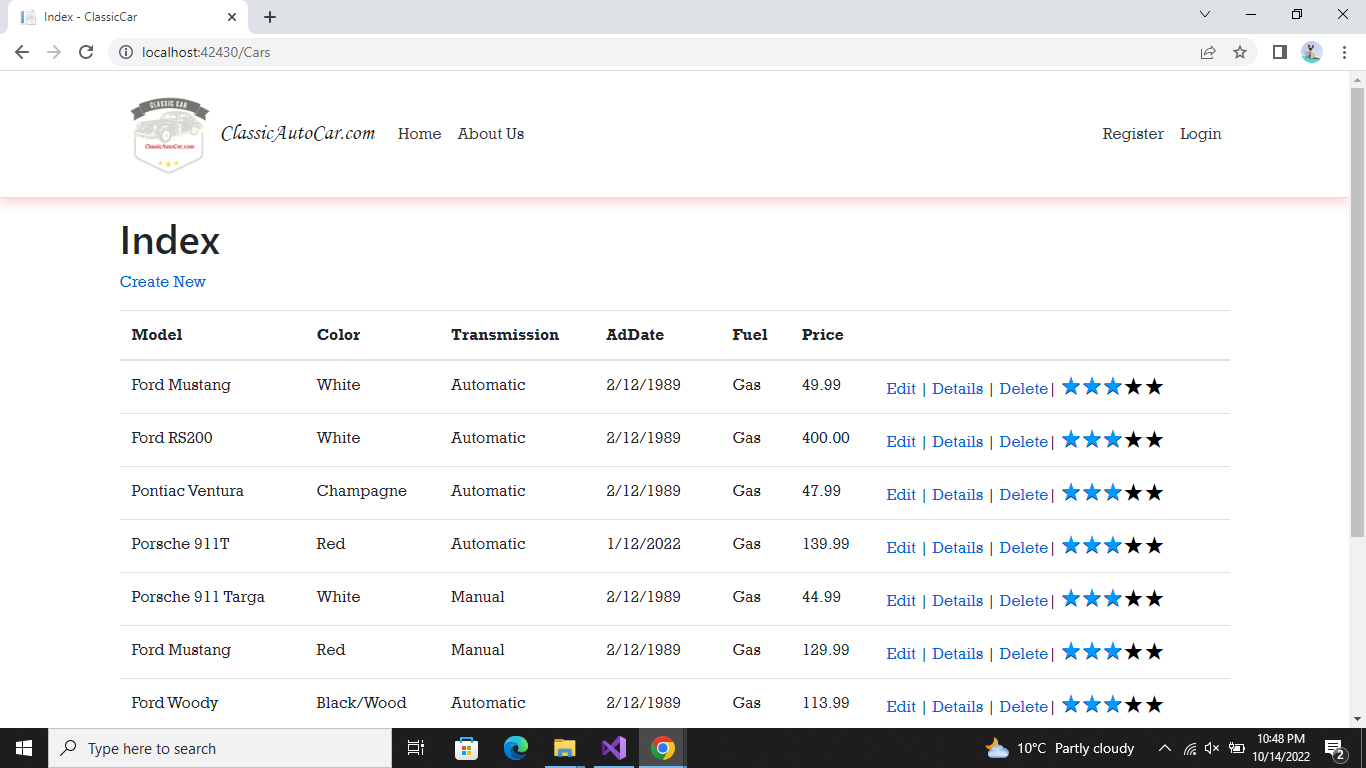
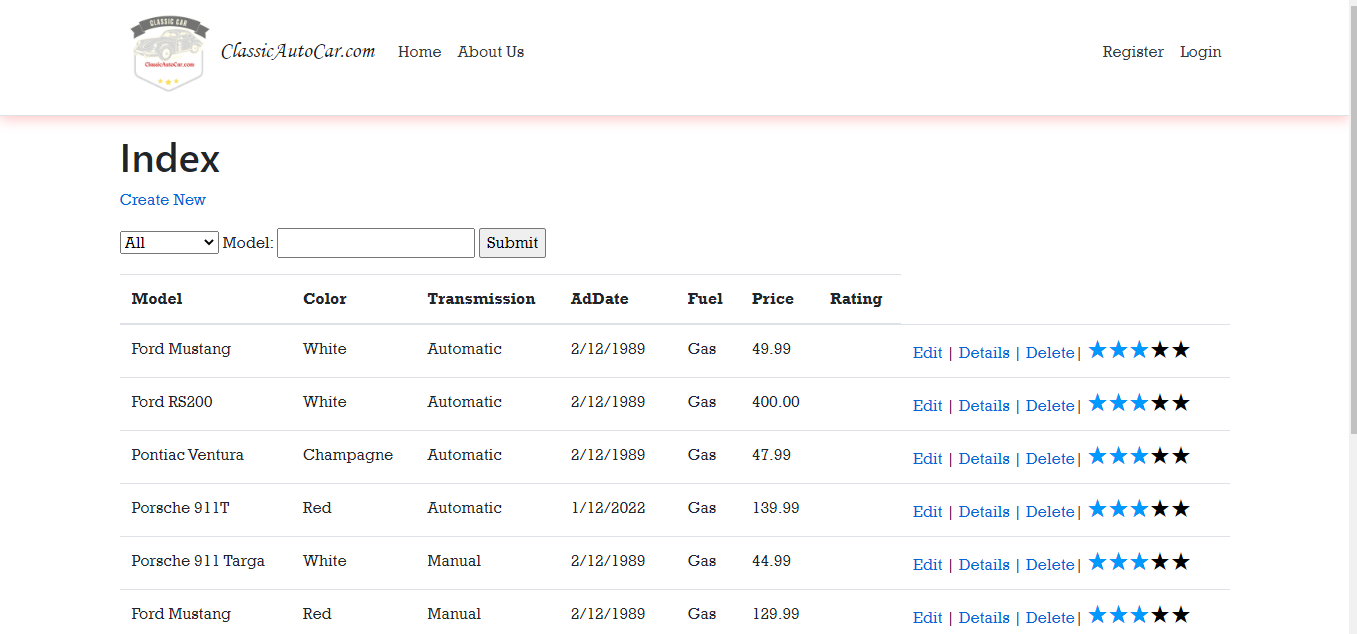
last commit

diff --git a/Models/SeedData.cs b/Models/SeedData.cs
@@ -30,7 +30,8 @@ namespace ClassicCar.Models
                         Transmission = "Automatic",
                         AdDate = DateTime.Parse("1989-2-12"),
                         Fuel = "Gas",
-                        Price = 49.99M
+                        Price = 49.99M,
+                        Rating = "4"
                         
                     },
 
@@ -41,7 +42,8 @@ namespace ClassicCar.Models
                         Transmission = "Automatic",
                         AdDate = DateTime.Parse("1989-2-12"),
                         Fuel = "Gas",
-                        Price = 400.99M
+                        Price = 400.99M,
+                        Rating = "3"
                     },
 
                     new Car
@@ -51,7 +53,8 @@ namespace ClassicCar.Models
                         Transmission = "Automatic",
                         AdDate = DateTime.Parse("1989-2-12"),
                         Fuel = "Gas",
-                        Price = 47.99M
+                        Price = 47.99M,
+                        Rating = "2"
                     },
 
                     new Car
@@ -61,7 +64,8 @@ namespace ClassicCar.Models
                         Transmission = "Automatic",
                         AdDate = DateTime.Parse("1972-2-12"),
                         Fuel = "Gas",
-                        Price = 139.99M
+                        Price = 139.99M,
+                        Rating = "4"
                     },
                      new Car
                      {
@@ -70,7 +74,8 @@ namespace ClassicCar.Models
                          Transmission = "Manual",
                          AdDate = DateTime.Parse("1980-2-12"),
                          Fuel = "Gas",
-                         Price = 44.99M
+                         Price = 44.99M,
+                         Rating = "5"
                      },
                       new Car
                       {
@@ -79,7 +84,9 @@ namespace ClassicCar.Models
                           Transmission = "Manual",
                           AdDate = DateTime.Parse("1967-2-12"),
                           Fuel = "Gas",
-                          Price = 129.99M
+                          Price = 129.99M,
+                          Rating = "3"
+
                       },
                        new Car
                        {
@@ -88,7 +95,8 @@ namespace ClassicCar.Models
                            Transmission = "Automatic",
                            AdDate = DateTime.Parse("1989-2-12"),
                            Fuel = "Gas",
-                           Price = 113.99M
+                           Price = 113.99M,
+                           Rating = "2"
                        },
                         new Car
                         {
@@ -97,7 +105,8 @@ namespace ClassicCar.Models
                             Transmission = "Manual",
                             AdDate = DateTime.Parse("1989-2-12"),
                             Fuel = "Gas",
-                            Price = 18.99M
+                            Price = 18.99M,
+                            Rating = "5"
                         },
                          new Car
                          {
@@ -106,7 +115,8 @@ namespace ClassicCar.Models
                              Transmission = "Manual",
                              AdDate = DateTime.Parse("1989-2-12"),
                              Fuel = "Gas",
-                             Price = 100.99M
+                             Price = 100.99M,
+                             Rating = "3"
                          },
                           new Car
                           {
@@ -115,7 +125,8 @@ namespace ClassicCar.Models
                               Transmission = "Automatic",
                               AdDate = DateTime.Parse("1989-2-12"),
                               Fuel = "Gas",
-                              Price = 109.99M
+                              Price = 109.99M,
+                              Rating = "4"
                           }
                 );
                 context.SaveChanges();

diff --git a/Controllers/CarsController.cs b/Controllers/CarsController.cs
@@ -20,9 +20,26 @@ namespace ClassicCar.Controllers
         }
 
         // GET: Cars
-        public async Task<IActionResult> Index()
+        public async Task<IActionResult> Index(string carTransmission, string searchString)
         {
-            return View(await _context.Car.ToListAsync());
+            //use LINQ to get list of Transmission
+            IQueryable<string> transmissionQuery = from m in _context.Car orderby m.Transmission select m.Transmission;
+
+            var cars =from m in _context.Car select m;
+            if (!String.IsNullOrEmpty(searchString))
+            {
+                cars = cars.Where(s => s.Model.Contains(searchString));
+            }
+            if (!String.IsNullOrEmpty(carTransmission))
+            {
+                cars = cars.Where(x => x.Transmission == carTransmission);
+            }
+            var carTransmissionVM = new CarTransmissionViewModel
+            {
+                Transmission = new SelectList(await transmissionQuery.Distinct().ToListAsync()),
+                Cars = await cars.ToListAsync()
+            };
+                return View(carTransmissionVM);
         }
 
         // GET: Cars/Details/5
@@ -54,7 +71,8 @@ namespace ClassicCar.Controllers
         // more details, see http://go.microsoft.com/fwlink/?LinkId=317598.
         [HttpPost]
         [ValidateAntiForgeryToken]
-        public async Task<IActionResult> Create([Bind("Ad_Number,Model,Color,Transmission,AdDate,Fuel,Price")] Car car)
+       // [Bind("Ad_Number,Model,Color, Transmission,AdDate,Fuel,Price,Rating ")]
+        public async Task<IActionResult> Create([Bind("Ad_Number,Model,Color,Transmission,AdDate,Fuel,Price,Rating")] Car car)
         {
             if (ModelState.IsValid)
             {
@@ -85,8 +103,9 @@ namespace ClassicCar.Controllers
         // To protect from overposting attacks, enable the specific properties you want to bind to, for 
         // more details, see http://go.microsoft.com/fwlink/?LinkId=317598.
         [HttpPost]
+       // [Bind("Ad_Number,Model,Color, Transmission,AdDate,Fuel,Price,Rating ")]
         [ValidateAntiForgeryToken]
-        public async Task<IActionResult> Edit(int id, [Bind("Ad_Number,Model,Color,Transmission,AdDate,Fuel,Price")] Car car)
+        public async Task<IActionResult> Edit(int id, [Bind("Ad_Number,Model,Color,Transmission,AdDate,Fuel,Price,Rating")] Car car)
         {
             if (id != car.Ad_Number)
             {
@@ -148,6 +167,12 @@ namespace ClassicCar.Controllers
         private bool CarExists(int id)
         {
             return _context.Car.Any(e => e.Ad_Number == id);
+        }
+
+        [HttpPost]
+        public string Index(string searchString, bool notUsed)
+        {
+            return "From[HttpPost]Index: filter on" + searchString;
         }
     }
 }

diff --git a/Data/Migrations/20221017211507_Rating.cs b/Data/Migrations/20221017211507_Rating.cs
@@ -1,0 +1,38 @@
+using Microsoft.EntityFrameworkCore.Migrations;
+
+namespace ClassicCar.Data.Migrations
+{
+    public partial class Rating : Migration
+    {
+        protected override void Up(MigrationBuilder migrationBuilder)
+        {
+            migrationBuilder.AlterColumn<decimal>(
+                name: "Price",
+                table: "Car",
+                type: "decimal(18, 2)",
+                nullable: false,
+                oldClrType: typeof(decimal),
+                oldType: "decimal(18,2)");
+
+            migrationBuilder.AddColumn<string>(
+                name: "Rating",
+                table: "Car",
+                nullable: true);
+        }
+
+        protected override void Down(MigrationBuilder migrationBuilder)
+        {
+            migrationBuilder.DropColumn(
+                name: "Rating",
+                table: "Car");
+
+            migrationBuilder.AlterColumn<decimal>(
+                name: "Price",
+                table: "Car",
+                type: "decimal(18,2)",
+                nullable: false,
+                oldClrType: typeof(decimal),
+                oldType: "decimal(18, 2)");
+        }
+    }
+}

diff --git a/Data/Migrations/20221017211507_Rating.Designer.cs b/Data/Migrations/20221017211507_Rating.Designer.cs
@@ -4,14 +4,16 @@ using ClassicCar.Data;
 using Microsoft.EntityFrameworkCore;
 using Microsoft.EntityFrameworkCore.Infrastructure;
 using Microsoft.EntityFrameworkCore.Metadata;
+using Microsoft.EntityFrameworkCore.Migrations;
 using Microsoft.EntityFrameworkCore.Storage.ValueConversion;
 
 namespace ClassicCar.Data.Migrations
 {
     [DbContext(typeof(CarDbContext))]
-    partial class CarDbContextModelSnapshot : ModelSnapshot
+    [Migration("20221017211507_Rating")]
+    partial class Rating
     {
-        protected override void BuildModel(ModelBuilder modelBuilder)
+        protected override void BuildTargetModel(ModelBuilder modelBuilder)
         {
 #pragma warning disable 612, 618
             modelBuilder

diff --git a/Models/Car.cs b/Models/Car.cs
@@ -1,9 +1,7 @@
 using System;
-using System.Collections.Generic;
-using System.Linq;
-using System.Threading.Tasks;
 using System.ComponentModel.DataAnnotations;
 using Microsoft.EntityFrameworkCore;
+using System.ComponentModel.DataAnnotations.Schema;
 namespace ClassicCar.Models
 {
     public class Car
@@ -18,7 +16,10 @@ namespace ClassicCar.Models
         [DataType(DataType.Date)]
         public DateTime AdDate { get; set; }
         public string Fuel { get; set; }
+
+        [Column(TypeName = "decimal(18, 2)")]
         public decimal Price { get; set; }
+        public string Rating { get; set; }
     }
     public class ApplicationDbContext : DbContext
     {

diff --git a/Models/CarTransmissionViewModel.cs b/Models/CarTransmissionViewModel.cs
@@ -1,0 +1,20 @@
+using Microsoft.AspNetCore.Mvc.Rendering;
+using System;
+using System.Collections.Generic;
+using System.Linq;
+using System.Threading.Tasks;
+
+namespace ClassicCar.Models
+{
+    public class CarTransmissionViewModel
+    {
+       
+
+        public List<Car> Cars { get; set; }
+
+        public SelectList Transmissions { get; set; }
+        public string CarTransmission {get; set;}
+        public string SearchString { get; set; }
+        public SelectList Transmission { get; internal set; }
+    }
+}
